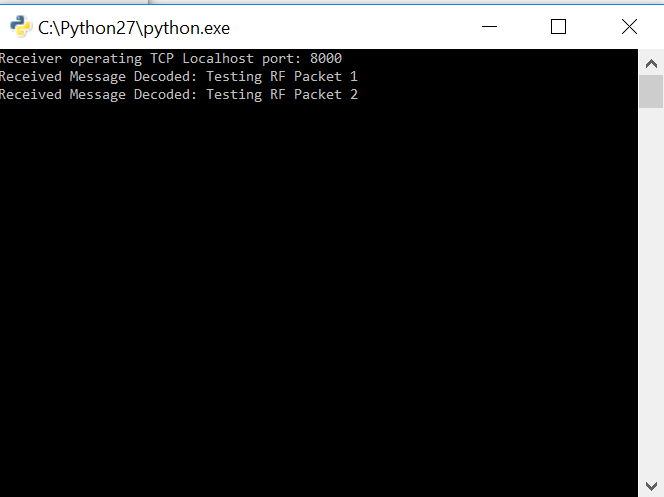
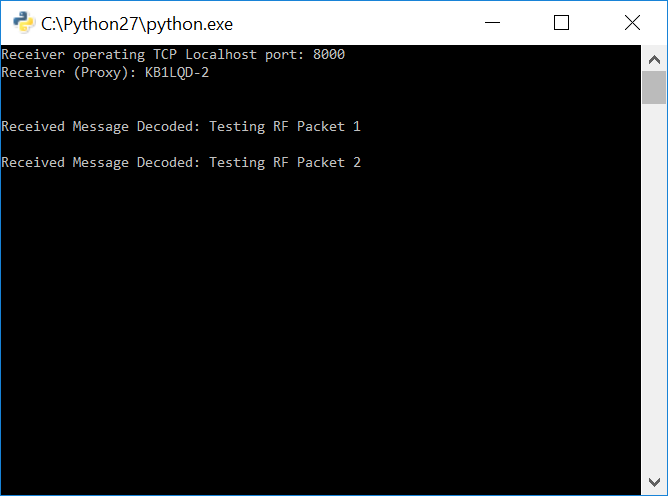
Completed the RF packet tutorial

Changed region(s): [[0.0, 0.0, 1.0, 1.0], [0.0, 0.3024, 0.5422, 0.3629], [0.0, 0.2419, 0.5422, 0.2722]]

diff --git a/Tutorials/Python_Developer_Tutorials/foundation/RF-Transmit-Receive-Packet/Tutorial_Exp_RF_Packet_TX-User-Input.py b/Tutorials/Python_Developer_Tutorials/foundation/RF-Transmit-Receive-Packet/Tutorial_Exp_RF_Packet_TX-User-Input.py
@@ -31,10 +31,6 @@ receiver_device_callsign = str(receiver_device_callsign).upper()
 faraday_1 = faradaybasicproxyio.proxyio()
 faraday_cmd = faradaycommands.faraday_commands()
 
-##############
-## TOGGLE Remote Device ++GPIO
-##############
-
 user_input = ''
 
 while(user_input != "quit"):

diff --git a/Tutorials/Python_Developer_Tutorials/foundation/RF-Transmit-Receive-Packet/Readme.md b/Tutorials/Python_Developer_Tutorials/foundation/RF-Transmit-Receive-Packet/Readme.md
@@ -18,46 +18,84 @@ There are two transmitter scripts provided that are received by a single receive
 * Transmit a saved variable 
 * Transmit user input data
 
+### Prerequisites
+* Properly configured and connected proxy
+  * x2 Faraday connected to local computer
+ 
+> Note: Keep the units seperated a few feet apart and ensure the RF power settings are below ~20 to avoid desensing the CC430 front end receiver!
 
+> Note: Until proxy auto-configuration functionality is added it is possible that proxy's assigned callsign is different than the units actual configuration callsign. Please keep these matching unless you know what you're doing.
+
+An example proxy.ini with two units connected is shown below.
+
+```Python
+[FLASK]
+HOST=127.0.0.1
+PORT=8000
+
+[PROXY]
+UNITS=2
+
+[UNIT0]
+CALLSIGN = KB1LQD
+NODEID = 1
+COM = COM106
+BAUDRATE = 115200
+TIMEOUT = 5
+
+[UNIT1]
+CALLSIGN = KB1LQD
+NODEID = 2
+COM = COM112
+BAUDRATE = 115200
+TIMEOUT = 5
+```
 
 #Running The Tutorial Example Script
 
-## Start The Proxy Interface
+## Configuration
 
-Following the [Configuring Proxy](../../0-Welcome_To_Faraday/Configuring_Proxy/) tutorial configure, start, and ensure a successful connection to **BOTH** locally (USB) connected Faraday digital radios.
+* Open `configuration-template.ini` with a text editor
+* Transmitter
+  * Update `CALLSIGN` Replace ```REPLACEME``` to match the callsign of the Faraday unit **as assigned** in proxy
+  * Update `NODEID` to match the callsign node ID of the Faraday unit **as assigned** in proxy
+* Receiver
+  * Update `CALLSIGN` Replace ```REPLACEME``` to match the callsign of the remote Faraday unit as configured in the devices FLASH memory configuration
+  * Update `NODEID` to match the callsign of the remote Faraday unit as configured in the devices FLASH memory configuration
+* Save the file as `configuration.ini`
+
+> NOTE: Ideally the proxy assigned callsign/ID matches the unit device configuration but this is not controlled or required and care should be taken.
+
+```python
+[DEVICES]
+UNITS=2
+
+; Transmitter - This should match the connected Faraday unit as assigned in Proxy configuration
+UNIT0CALL=REPLACEME
+UNIT0ID= REPLACEME
+
+; Receiver - This should match the programmed callsign of the remote Faraday device to be commanded (receive)
+UNIT1CALL=REPLACEME
+UNIT1ID= REPLACEME
+```
 
 ## Edit Local/Remote Device Information
 
 ###Transmit Python Script(s)
 
-The tutorial transmit python scripts (`Tutorial_Exp_RF_Packet_TX.py` and `Tutorial_Exp_RF_Packet_TX-User-Input.py`) variables listed below hold the local and remote Faraday device callsign/ID numbers. The local device communicates through the proxy interface and regardless of actual assigned callsign/ID the variables must match that assigned by the *"proxy.ini"* file. The remote device callsign/ID variable is used to address the RF packet and must match that of the remote unit device configuration to be communicated with.
+There are two transmitter scripts provided that are used to send UART data to the intended transmitter Faraday which in turn forwards that data over a wireless transmission.
 
-> NOTE: Ideally the proxy assigned callsign/ID matches the unit device configuration but this is not controlled or required and care should be taken.
+* `Tutorial_Exp_RF_Packet_TX.py` - Transmits a series of hardcoded messages
+* `Tutorial_Exp_RF_Packet_TX-User-Input.py` - Transmits user input text
 
-
-```python
-#Local device information
-local_device_callsign = 'KB1LQD'
-local_device_node_id = 1
-
-#Remote device information
-remote_callsign = 'KB1LQD'
-remote_id = 2
-```
 
 ### Receiver Python Script
 
-Update the receiving python script `Tutorial_Exp_RF_Packet_RX.py` local Faraday device callsign and ID number connection information to interact with the intended proxy device for receive.
-
-```python
-#Local device information
-local_device_callsign = 'kb1lqd'
-local_device_node_id = 2
-```
+The `Tutorial_Exp_RF_Packet_RX.py` script is used to create the "receiver" for the received data packet(s) from the experimental packet forward command application "port". It continuously queries proxy for new packets on this port and if so it retrieves, parses, and displays them.
 
 ## Start The Receiver
 
-Run the `Tutorial_Exp_RF_Packet_RX.py` script and when properly conneted to the proxy Faraday device a terminal propmt like below should appear:
+Run the `Tutorial_Exp_RF_Packet_RX.py` script and when properly conneted to the proxy Faraday device a terminal prompt like below should appear:
 
 ![Receiver Started Prompt](Images/Receiver_Started.png "Receiver Started Prompt")
 
@@ -66,6 +104,11 @@ Run the `Tutorial_Exp_RF_Packet_RX.py` script and when properly conneted to the 
 
 Simply running this script will transmit two predefined data messages (ASCII) one after the other to the receiver and be displayed!
 
+**Transmitter Prompt**
+
+![Receiver Prompt Success 1](Images/TX_1_Output.png "Transmitter Prompt Success 1")
+
+**Receiver Prompt**
 
 ![Receiver Prompt Success 1](Images/Output_Example_Success_1.png "Receiver Prompt Success 1")
 
@@ -76,9 +119,9 @@ Simply running this script will transmit two predefined data messages (ASCII) on
 
 The "User Input" transmitter program will open a prompt (left) when run thats asks for you to enter text to be transmitted to and displays on the receiver (right)  terminal.
 
-![User Input Prompt](Images/User-Input-Prompt.png "User Input Prompt")
-
 Type in any message (keep in legal for Part 97!) to the transmitter prompt the is less than 42 characters (bytes) long and press enter to transmit. You should see the receiver print the message!
+
+> Faraday's simple wireless network stack embededs the device's callsign in every (layer 2) packet as ASCII. There is no need to manually "identify".
 
 ![Output Success User Input](Images/Output_Example_Success_2.png "Output Success User Input")
 
@@ -97,19 +140,20 @@ The receiver code is extremely basic and simple loops while checking for a new d
 ```python
 #Print debug information about proxy port listening
 print "Receiver operating TCP Localhost port:", faraday_1.FLASK_PORT
-
+print "Receiver (Proxy):", receiver_device_callsign + '-' + str(receiver_device_node_id)
+print "\n"
 #Setup variables for receiving
 data = None
 
 #While loop to wait for reception of data packet from experimental message application
 while(1):
     #Wait until there is new data on the message application port OR timout
-    data = faraday_1.GETWait(local_device_callsign, local_device_node_id, PROXY_MESSAGE_EXPERIMENTAL_PORT, 2)
+    data = faraday_1.GETWait(receiver_device_callsign, receiver_device_node_id, PROXY_MESSAGE_EXPERIMENTAL_PORT, 2)
 
     #Check if data is False (False means that the Get() function timed out), if not then display new data
     if (data != None) and (not 'error' in data):
-        #print "Received Message RAW", repr(data[0]['data'])
-        print "Received Message Decoded:", faraday_1.DecodeRawPacket(data[0]['data'])
+        payload_data = data[0]['data']
+        print "Received Message Decoded:", faraday_1.DecodeRawPacket(payload_data)
 
         #Set data = False so that the function loop can properly wait until the next data without printing last received data over and over
         data = None
@@ -122,21 +166,64 @@ The transmitter code that sends a predefined string variable to the receiver is 
 Two messages are send sequentially, `"Testing RF Packet 1"` and `"Testing RF Packet 2"` with not timing constraints (flow control) between them. Faraday is fast enough to buffer both incoming packets and transmit them. 
 
 ```python
-print "Connecting to proxy on PROXY device:", local_device_callsign + '-' + str(local_device_node_id)
-print "Transmitting to device:", remote_callsign + '-' + str(remote_id)
+print "\nConnecting to proxy on PROXY device:", transmitter_device_callsign + '-' + str(transmitter_device_node_id)
+print "\nTransmitter (Proxy):", transmitter_device_callsign + '-' + str(transmitter_device_node_id)
+print "Receiver (Device Configuration):", receiver_device_callsign + '-' + str(receiver_device_node_id)
+print '\n'
 
 #Use the predefined experimental message command (singled packet) function to send an RF message to a remote unit
-message = "Testing RF Packet 1"
-command = faraday_cmd.CommandLocalExperimentalRfPacketForward(remote_callsign, remote_id, message)
+message = "Testing RF Packet 1"  # NOTE: Max payload size commandmodule.FIXED_RF_PAYLOAD_LEN
+command = faraday_cmd.CommandLocalExperimentalRfPacketForward(receiver_device_callsign, receiver_device_node_id, message)
 print "Transmitting message:", message
-faraday_1.POST(local_device_callsign, local_device_node_id, faraday_1.CMD_UART_PORT, command)
+faraday_1.POST(transmitter_device_callsign, transmitter_device_node_id, faraday_1.CMD_UART_PORT, command)
 
 message = "Testing RF Packet 2"
-command = faraday_cmd.CommandLocalExperimentalRfPacketForward(remote_callsign, remote_id, message)
+command = faraday_cmd.CommandLocalExperimentalRfPacketForward(receiver_device_callsign, receiver_device_node_id, message)
 print "Transmitting message:", message
-faraday_1.POST(local_device_callsign, local_device_node_id, faraday_1.CMD_UART_PORT, command)
+faraday_1.POST(transmitter_device_callsign, transmitter_device_node_id, faraday_1.CMD_UART_PORT, command)
 ```
 
+## Code - Transmitter (`Tutorial_Exp_RF_Packet_TX-User-Input.py`)
+
+Reviewing the transmitter code above this code is pretty straight forward.
+
+``` Python
+user_input = ''
+
+while(user_input != "quit"):
+    user_input = raw_input("\nText To Transmit (Max Length = " + str(commandmodule.FIXED_RF_PAYLOAD_LEN) +" Bytes)" + ": ")
+    if len(user_input) < commandmodule.FIXED_RF_PAYLOAD_LEN:
+        command = faraday_cmd.CommandLocalExperimentalRfPacketForward(receiver_device_callsign, receiver_device_node_id,
+                                                                      str(user_input))
+        print "Transmitting message:", user_input, '\n'
+        faraday_1.POST(transmitter_device_callsign, transmitter_device_node_id, faraday_1.CMD_UART_PORT, command)
+    else:
+        print "Payload is too long!", len(user_input), "Bytes", '\n'
+```
+
+## Program Limitations
+
+### Maximum Transmissible Unit (MTU)
+You're probably wondering why the maximum data length is 42 bytes? The simplistic experiemental experiemental packet forwarding command used is a standard "command application" packet that performes a specific action. This is limited to a max size of 64 bytes by the command application packet protocol. Adding overhead for the command application header information leaves a total payload of 42 bytes. There is no logic in this example program to fragment larger amounts of data into 42 byte pieces and reassemble after reception.
+
+The following tutorials will create a simple fragmentation protocol that will allow for data larger than the MTY to be transfered.
+
+### Channel Reliability
+This example program nor does the experimental RF packet forwarding command provide a "reliable" communication channel. If a wireless transmission is corrupted or lost the information will be lost and the reciever will not know that it is missing. There are two common ways to mitigate this:
+
+* Automatic Retry-Request (ARQ)
+  * Error detection and transmissions retry
+* Forward Error Correction
+  * Reduntant data coded into data that allows for correction of minor errors/corruption in data without retrying transmission
+
+Future tutorials will explore the developement of a simple ARQ protocol.
+
+### Optimization
+This tutorial example series uses a simple single packet command function to transfer data and is slow by design. Great enhancements to total throughput (among others) can be achieved by:
+
+* Custom CC430 firmware that provides multi-packet buffering
+* ARQ layer within CC430 firmware
+* Additon of a "sliding-window" ARQ protocol
 
 # Troubleshooting
 
@@ -158,6 +245,10 @@ This simple implementation is limited to a maximum of 42 Bytes of payload data. 
 
 This simplistic protocol has no error detection or correction. If a packet was not receiver simply retry several times.
 
+#Excersizes
+* Experiements with python's `repr()` to display raw bytes of data instead of the ASCII converted view
+  * This will make the fixed-length payload padding bytes visible!
+* Write a simple frame that allows a variable length message (in one MTU) that allows you to easily extract ONLY the intended payload and remove other bytes of padding data.
 
 #See Also
 
